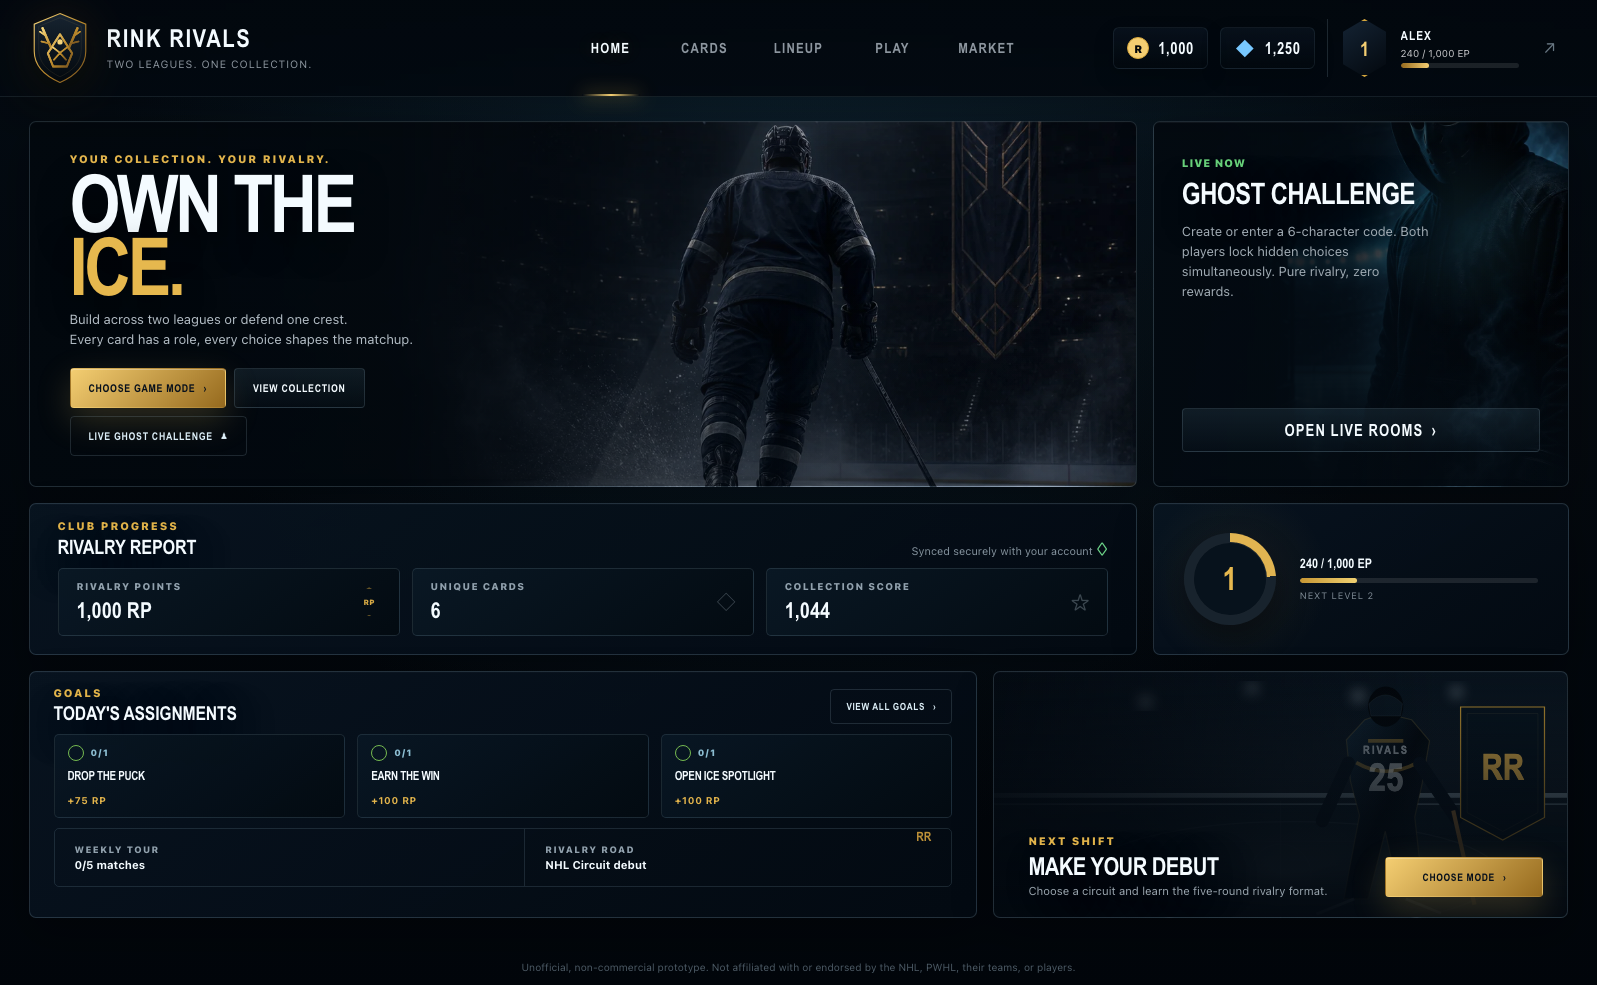
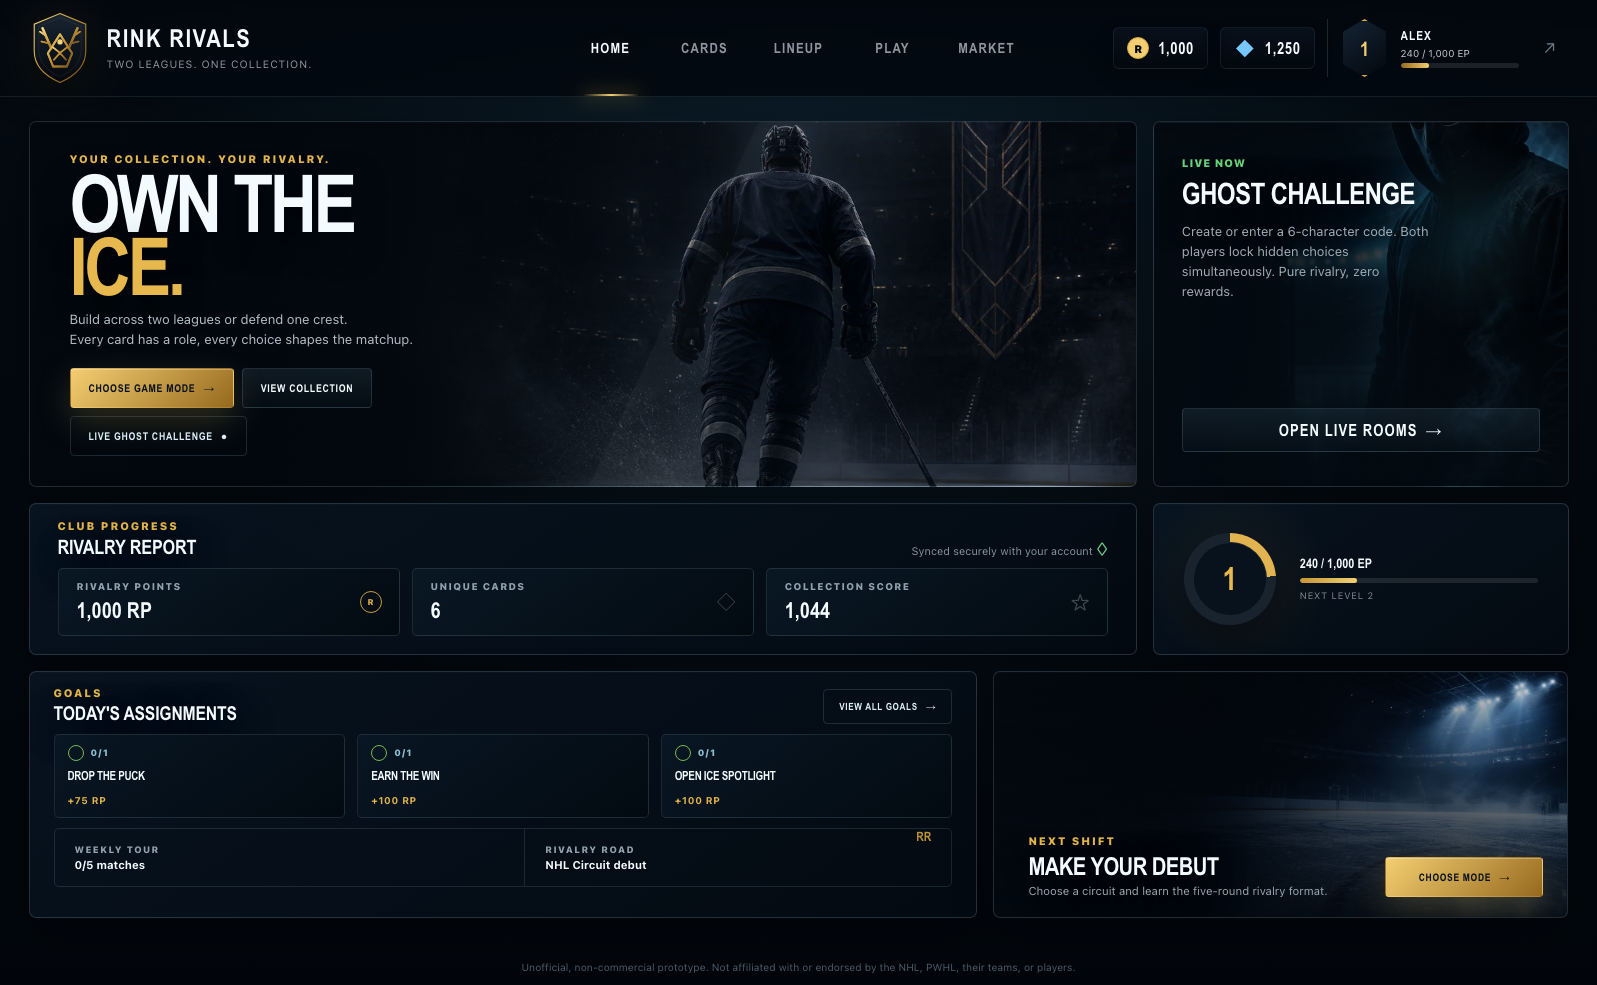
home screen ui fix

diff --git a/src/features/home/HomeScreen.module.css b/src/features/home/HomeScreen.module.css
@@ -132,9 +132,9 @@
 .goalSummaryStrip b { position: absolute; right: 20px; color: #bd9138; font-family: var(--font-display); font-size: .8rem; }
 
 .nextShift { display: flex; min-height: 247px; align-items: flex-end; justify-content: space-between; gap: 20px; padding: 24px 24px 20px 34px; background:
-  linear-gradient(0deg, rgb(3 9 16 / 96%) 0%, rgb(3 9 16 / 58%) 50%, transparent 100%),
-  linear-gradient(90deg, rgb(3 9 16 / 87%), transparent 78%),
-  url("/assets/ui/home-arena.svg") 46% 68% / cover no-repeat;
+  linear-gradient(0deg, rgb(3 9 16 / 94%) 0%, rgb(3 9 16 / 36%) 58%, transparent 100%),
+  linear-gradient(90deg, rgb(3 9 16 / 92%) 0%, rgb(3 9 16 / 48%) 48%, rgb(3 9 16 / 12%) 100%),
+  url("/assets/ui/home-next-shift.webp") center / cover no-repeat;
 }
 .nextShift > div { position: relative; z-index: 1; max-width: 430px; }
 .nextShift h2 { margin: 8px 0 5px; font-family: var(--font-display); font-size: 1.55rem; line-height: .95; text-transform: uppercase; }
